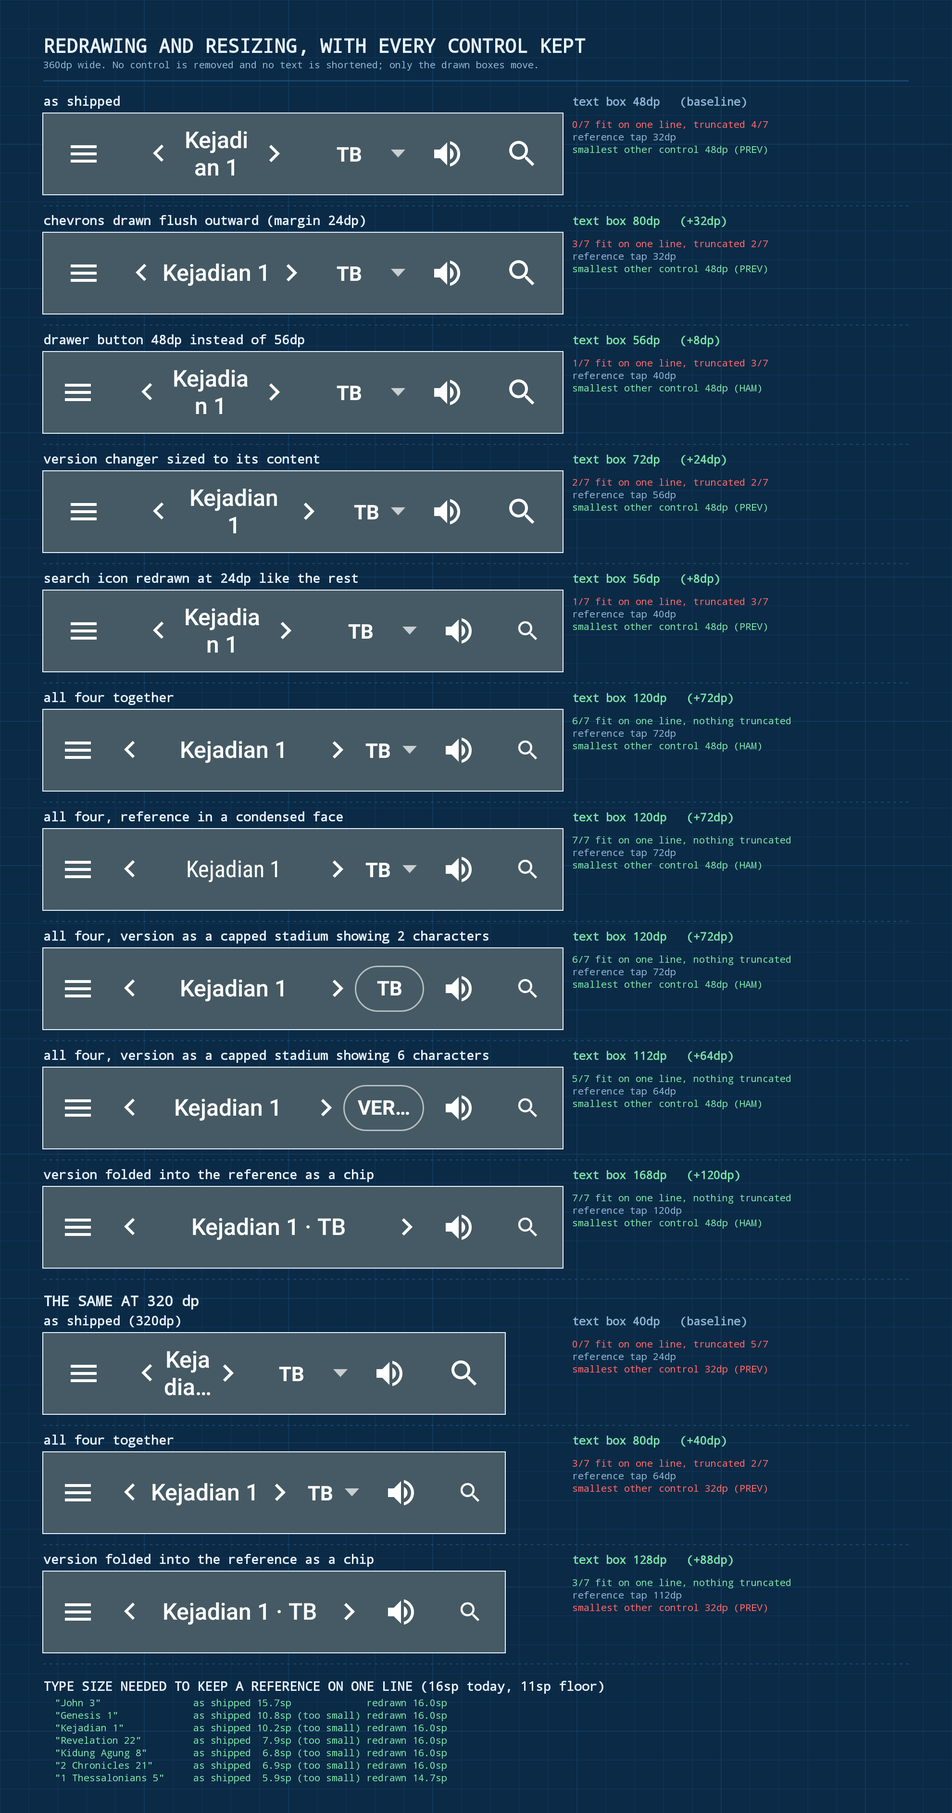
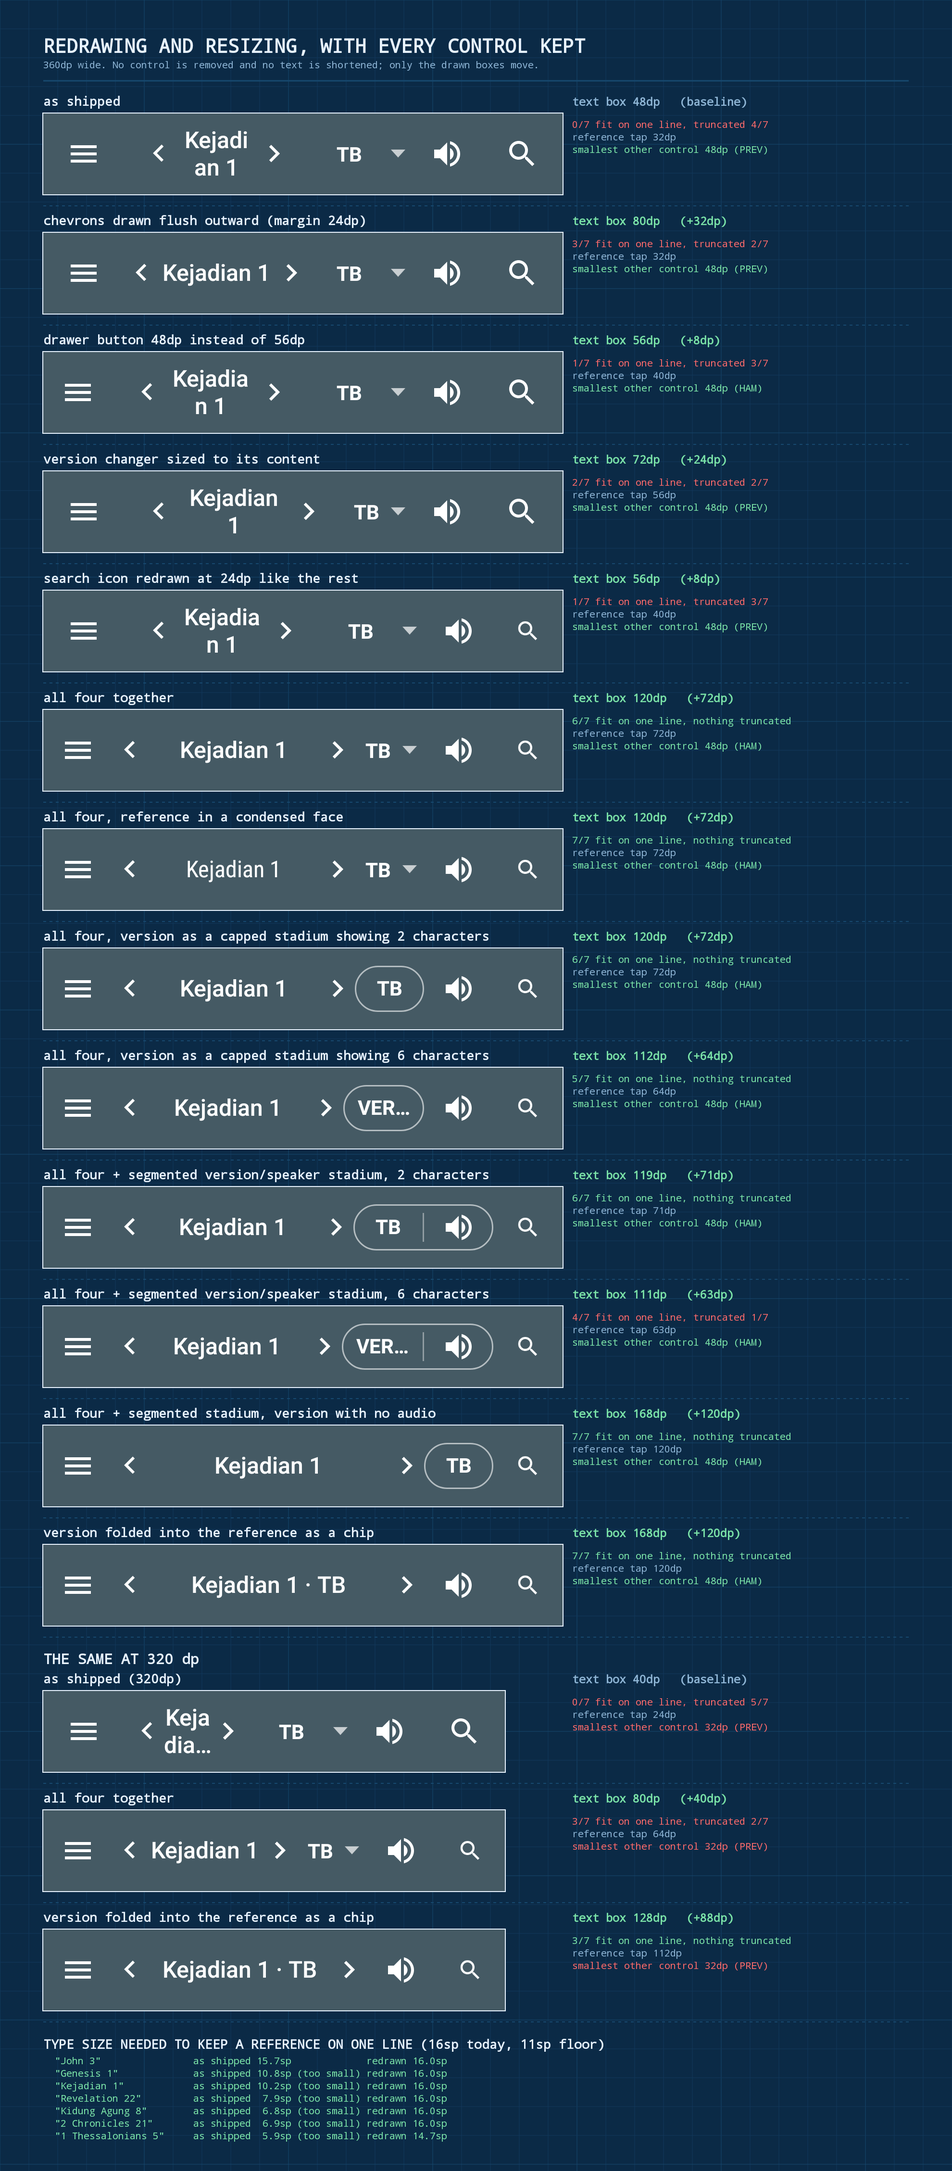
Measure a segmented version-and-speaker stadium
Pairing the version abbreviation with the speaker in one stadium split by a
hairline is sound on the merits. Audio availability is resolved per version
id: AudioSetsRepository caches by versionId and
AudioBarController.isAvailable is "does a visible version have a recording".
The speaker really is a property of the version the label names.

On space it is a wash, and the measurement says so. The control is 97dp at
two characters and 105dp at six, against the 120dp the version changer and
the audio menu item cost together today, so the reference is left 63dp
where a capped chip with audio still in the action menu leaves it 64dp. The
1dp is the divider. Two adjacent tap targets cannot go below 48dp each, so
96dp plus a hairline is the floor for a two-segment control, which is most
of the 120dp back already.

Worth doing for what it says rather than what it saves: one object instead
of two, the speaker visibly owned by the version, a real 48dp target for
the speaker, and a graceful collapse to the plain 56dp chip when the
version has no recording. Two caveats are recorded: it moves audio out of
the action menu, and in split view audioAvailableSources spans every
visible version while bVersion names only the master.

The version-control sheet now measures whole slot views rather than the
label inside them, so a container-backed candidate reports its real width,
and each candidate is compared against what the same job costs today (72dp,
[…]

Changed region(s): [[0.0308, 0.0, 0.8318, 0.9931], [0.6162, 0.6517, 0.7086, 0.6828]]

diff --git a/Alkitab/src/test/java/yuku/alkitab/base/widget/ReaderToolbarSpaceAuditTest.kt b/Alkitab/src/test/java/yuku/alkitab/base/widget/ReaderToolbarSpaceAuditTest.kt
@@ -19,6 +19,8 @@ import android.view.Gravity
 import android.view.View
 import android.view.ViewGroup
 import android.widget.ImageButton
+import android.widget.ImageView
+import android.widget.LinearLayout
 import android.widget.TextView
 import androidx.appcompat.app.AppCompatActivity
 import androidx.appcompat.view.ContextThemeWrapper
@@ -215,7 +217,7 @@ class ReaderToolbarSpaceAuditTest {
         val bGoto = activity.findViewById<GotoButton>(R.id.bGoto)
         val bLeft = activity.findViewById<ImageButton>(R.id.bLeft)
         val bRight = activity.findViewById<ImageButton>(R.id.bRight)
-        val bVersion = activity.findViewById<TextView>(R.id.bVersion)
+        val bVersion = activity.findViewById<View>(R.id.bVersion)
 
         val slots = mutableListOf<Slot>()
 
@@ -1170,6 +1172,18 @@ class ReaderToolbarSpaceAuditTest {
             chevronsFlush(a, 24); compactNavButton(a, 48); resizeSearchIcon(a, 24)
             cappedStadiumVersion(a, "VERSNM")
         },
+        Mutation("all four + segmented version/speaker stadium, 2 characters") { a ->
+            chevronsFlush(a, 24); compactNavButton(a, 48); resizeSearchIcon(a, 24)
+            installSegmented(a, withAudio = true).text = "TB"
+        },
+        Mutation("all four + segmented version/speaker stadium, 6 characters") { a ->
+            chevronsFlush(a, 24); compactNavButton(a, 48); resizeSearchIcon(a, 24)
+            installSegmented(a, withAudio = true).text = "VERSNM"
+        },
+        Mutation("all four + segmented stadium, version with no audio") { a ->
+            chevronsFlush(a, 24); compactNavButton(a, 48); resizeSearchIcon(a, 24)
+            installSegmented(a, withAudio = false).text = "TB"
+        },
         Mutation("version folded into the reference as a chip", refs = MERGED, sample = "Kejadian 1 · TB") { a ->
             spaceSavingPackage(a); foldVersionIntoReference(a)
         },
@@ -1215,8 +1229,10 @@ class ReaderToolbarSpaceAuditTest {
     private class VersionCandidate(
         val name: String,
         val note: String,
-        /** Returns the control now sitting in the version slot. */
-        val install: (ToolbarAuditHostActivity) -> View,
+        /** What the same job costs in the bar today: 72dp, plus 48dp when it also swallows the audio icon. */
+        val baselineDp: Int,
+        /** Returns the text view whose label is being measured. */
+        val install: (ToolbarAuditHostActivity) -> TextView,
     )
 
     /** Swaps whatever sits in the version slot for [view], keeping its id and gravity. */
@@ -1264,45 +1280,123 @@ class ReaderToolbarSpaceAuditTest {
         }
     }
 
+    /**
+     * The version abbreviation and the audio control as one stadium, split by a
+     * hairline. Audio availability is resolved per version id by
+     * [yuku.alkitab.base.audio.AudioSetsRepository], so the speaker belongs to
+     * the version the label names.
+     *
+     * Returns the control and the label inside it.
+     */
+    private fun segmentedVersionAudio(
+        a: ToolbarAuditHostActivity,
+        withAudio: Boolean,
+        capDp: Int = 56,
+    ): Pair<View, TextView> {
+        val stadium = GradientDrawable().apply {
+            shape = GradientDrawable.RECTANGLE
+            cornerRadius = px(16).toFloat()
+            setStroke(px(1), 0x99ffffff.toInt())
+        }
+        val row = LinearLayout(a).apply {
+            orientation = LinearLayout.HORIZONTAL
+            gravity = Gravity.CENTER_VERTICAL
+            background = InsetDrawable(stadium, 0, px(12), 0, px(12))
+        }
+        val label = TextView(a).apply {
+            setTextColor(Color.WHITE)
+            setTextSize(TypedValue.COMPLEX_UNIT_SP, 14f)
+            typeface = Typeface.create(Typeface.DEFAULT, Typeface.BOLD)
+            gravity = Gravity.CENTER
+            includeFontPadding = false
+            setPadding(px(8), 0, px(8), 0)
+            minWidth = px(48)
+            maxWidth = px(capDp)
+            maxLines = 1
+            ellipsize = android.text.TextUtils.TruncateAt.END
+        }
+        row.addView(
+            label,
+            LinearLayout.LayoutParams(
+                ViewGroup.LayoutParams.WRAP_CONTENT,
+                ViewGroup.LayoutParams.MATCH_PARENT,
+            ),
+        )
+        if (withAudio) {
+            val divider = View(a).apply { setBackgroundColor(0x66ffffff) }
+            row.addView(
+                divider,
+                LinearLayout.LayoutParams(px(1), px(20)).apply { gravity = Gravity.CENTER_VERTICAL },
+            )
+            val speaker = ImageView(a).apply {
+                setImageDrawable(ContextCompat.getDrawable(a, R.drawable.ic_audio))
+                scaleType = ImageView.ScaleType.CENTER
+            }
+            row.addView(
+                speaker,
+                LinearLayout.LayoutParams(px(48), ViewGroup.LayoutParams.MATCH_PARENT),
+            )
+        }
+        return row to label
+    }
+
+    /** Installs the segmented control and takes audio out of the action menu. */
+    private fun installSegmented(a: ToolbarAuditHostActivity, withAudio: Boolean): TextView {
+        val (row, label) = segmentedVersionAudio(a, withAudio)
+        hideMenuItem(a, R.id.menuAudio)
+        putInVersionSlot(a, row, fillHeight = true)
+        return label
+    }
+
     private fun versionCandidates() = listOf(
-        VersionCandidate("as shipped (fixed 72dp)", "TextView, FakeSpinner 9-patch") { a ->
+        VersionCandidate("as shipped (fixed 72dp)", "TextView, FakeSpinner 9-patch", 72) { a ->
             a.findViewById(R.id.bVersion)
         },
-        VersionCandidate("as shipped, sized to content", "same style, wrap_content") { a ->
-            val v = a.findViewById<View>(R.id.bVersion)
+        VersionCandidate("as shipped, sized to content", "same style, wrap_content", 72) { a ->
+            val v = a.findViewById<TextView>(R.id.bVersion)
             v.layoutParams = v.layoutParams.apply { width = ViewGroup.LayoutParams.WRAP_CONTENT }
             v
         },
-        VersionCandidate("M3 assist chip", "Widget.Material3.Chip.Assist, 32dp tall, 8dp corner") { a ->
-            putInVersionSlot(a, Chip(material3Context(a)), fillHeight = false)
+        VersionCandidate("M3 assist chip", "Widget.Material3.Chip.Assist, 32dp tall, 8dp corner", 72) { a ->
+            putInVersionSlot(a, Chip(material3Context(a)), fillHeight = false) as TextView
         },
-        VersionCandidate("M3 outlined button (stadium)", "Widget.Material3.Button.OutlinedButton") { a ->
+        VersionCandidate("M3 outlined button (stadium)", "Widget.Material3.Button.OutlinedButton", 72) { a ->
             putInVersionSlot(
                 a,
                 MaterialButton(material3Context(a), null, com.google.android.material.R.attr.materialButtonOutlinedStyle),
                 fillHeight = false,
-            )
+            ) as TextView
         },
-        VersionCandidate("M3 tonal button (stadium)", "Widget.Material3.Button.TonalButton") { a ->
+        VersionCandidate("M3 tonal button (stadium)", "Widget.Material3.Button.TonalButton", 72) { a ->
             putInVersionSlot(
                 a,
                 MaterialButton(material3Context(a), null, com.google.android.material.R.attr.materialButtonTonalStyle),
                 fillHeight = false,
-            )
+            ) as TextView
         },
-        VersionCandidate("hand-drawn stadium", "stadium outline, 12dp side padding, taps full bar height") { a ->
-            putInVersionSlot(a, stadiumVersionControl(a, sidePaddingDp = 12), fillHeight = true)
+        VersionCandidate("hand-drawn stadium", "stadium outline, 12dp side padding, taps full bar height", 72) { a ->
+            putInVersionSlot(a, stadiumVersionControl(a, sidePaddingDp = 12), fillHeight = true) as TextView
         },
-        VersionCandidate("hand-drawn stadium, tight", "same, 8dp side padding") { a ->
-            putInVersionSlot(a, stadiumVersionControl(a, sidePaddingDp = 8), fillHeight = true)
+        VersionCandidate("hand-drawn stadium, tight", "same, 8dp side padding", 72) { a ->
+            putInVersionSlot(a, stadiumVersionControl(a, sidePaddingDp = 8), fillHeight = true) as TextView
         },
-        VersionCandidate("hand-drawn stadium, tight, capped at 56dp", "the same with maxWidth and an ellipsis") { a ->
+        VersionCandidate("hand-drawn stadium, tight, capped at 56dp", "the same with maxWidth and an ellipsis", 72) { a ->
             val v = stadiumVersionControl(a, sidePaddingDp = 8) as TextView
             v.maxWidth = px(56)
             v.maxLines = 1
             v.ellipsize = android.text.TextUtils.TruncateAt.END
-            putInVersionSlot(a, v, fillHeight = true)
+            putInVersionSlot(a, v, fillHeight = true) as TextView
         },
+        VersionCandidate(
+            "segmented stadium: version + speaker",
+            "one stadium split by a hairline, audio out of the action menu",
+            120,
+        ) { a -> installSegmented(a, withAudio = true) },
+        VersionCandidate(
+            "segmented stadium, version without audio",
+            "the speaker segment collapses when the version has no recording",
+            72,
+        ) { a -> installSegmented(a, withAudio = false) },
     )
 
     @Test
@@ -1346,17 +1440,20 @@ class ReaderToolbarSpaceAuditTest {
             var bitmap: Bitmap? = null
 
             try {
-                val control = candidate.install(activity) as TextView
+                val control = candidate.install(activity)
+                // The control may be a container holding the label, so the slot
+                // view is what the audit measures, not the label inside it.
+                fun slot(): View = activity.findViewById(R.id.bVersion)
                 for (label in VERSION_LABELS) {
                     control.text = label
                     layOut(); layOut()
-                    widths += label to control.width
+                    widths += label to slot().width
                     lineCounts += control.lineCount
                 }
                 control.text = VERSION_LABELS.last()
                 layOut(); layOut()
-                drawnHeight = control.height
-                tapHeight = control.height
+                drawnHeight = slot().height
+                tapHeight = slot().height
                 referenceBox = bGoto.width - bGoto.paddingLeft - bGoto.paddingRight
                 bitmap = Bitmap.createBitmap(toolbar.width, toolbar.height, Bitmap.Config.ARGB_8888)
                 toolbar.draw(Canvas(bitmap))
@@ -1422,12 +1519,13 @@ class ReaderToolbarSpaceAuditTest {
                         paint(INK, stroke = 2f),
                     )
                     val widest = r.widths.maxOf { it.second }
-                    val shipped = px(72)
+                    val shipped = px(r.candidate.baselineDp)
                     c.drawText(
-                        "six characters wants ${dpStr(r.widths.last().second)}dp" +
-                            (if (widest > shipped) "  (${dpStr(widest - shipped)}dp more than today)" else "  (${dpStr(shipped - widest)}dp less than today)"),
+                        "6 chars ${dpStr(r.widths.last().second)}dp" +
+                            (if (widest > shipped) "   +${dpStr(widest - shipped)}dp" else "   -${dpStr(shipped - widest)}dp") +
+                            " vs the ${r.candidate.baselineDp}dp it replaces",
                         margin + 1100f, y + 30f,
-                        paint(if (widest <= shipped) OK else ALERT, textSize = 21f, face = monoBold),
+                        paint(if (widest <= shipped) OK else ALERT, textSize = 20f, face = monoBold),
                     )
                     c.drawText(
                         r.widths.joinToString("   ") { "${it.first}=${dpStr(it.second)}" },
@@ -1484,24 +1582,32 @@ class ReaderToolbarSpaceAuditTest {
             appendLine("when it has one, so there is no hard cap; the layout is drawn for six characters")
             appendLine("(`tools:text=\"VERSNM\"`), which is what the last column tests.")
             appendLine()
-            appendLine("| control | " + VERSION_LABELS.joinToString(" | ") { "${it.length}ch" } + " | drawn height | vs today's 72 dp | wraps |")
-            appendLine("| --- | " + VERSION_LABELS.joinToString(" | ") { "---:" } + " | ---: | ---: | --- |")
+            appendLine(
+                "| control | " + VERSION_LABELS.joinToString(" | ") { "${it.length}ch" } +
+                    " | height | replaces | vs that | reference box at 6ch | wraps |"
+            )
+            appendLine("| --- | " + VERSION_LABELS.joinToString(" | ") { "---:" } + " | ---: | ---: | ---: | ---: | --- |")
             for (r in results) {
                 if (r.failure != null) {
-                    appendLine("| ${r.candidate.name} | " + VERSION_LABELS.joinToString(" | ") { "n/a" } + " | n/a | could not be built | |")
+                    appendLine("| ${r.candidate.name} | " + VERSION_LABELS.joinToString(" | ") { "n/a" } + " | n/a | n/a | could not be built | n/a | |")
                     continue
                 }
                 val widest = r.widths.maxOf { it.second }
                 val wraps = r.lineCounts.withIndex().filter { it.value > 1 }.map { VERSION_LABELS[it.index] }
+                val baseline = px(r.candidate.baselineDp)
                 appendLine(
                     "| ${r.candidate.name} | " + r.widths.joinToString(" | ") { dpStr(it.second) } +
-                        " | ${dpStr(r.drawnHeight)} | ${if (widest > px(72)) "+" else ""}${dpStr(widest - px(72))} " +
+                        " | ${dpStr(r.drawnHeight)} | ${r.candidate.baselineDp} dp " +
+                        "| ${if (widest > baseline) "+" else ""}${dpStr(widest - baseline)} " +
+                        "| ${dpStr(r.worstCaseReferenceBox)} " +
                         "| ${if (wraps.isEmpty()) "no" else wraps.joinToString(", ")} |"
                 )
             }
             appendLine()
-            appendLine("The reference text box in the last column of the sheet is what the reference gets")
-            appendLine("with each control in place, in the layout as it ships otherwise.")
+            appendLine("`replaces` is what the same job costs in the bar today: 72 dp for the version")
+            appendLine("changer, or 120 dp when the control also swallows the 48 dp audio item out of the")
+            appendLine("action menu. `reference box` is what the reference is left with, in the layout as")
+            appendLine("it ships otherwise, so it is the bottom line.")
             appendLine()
             appendLine("## Can a Material 3 widget be used today?")
             appendLine()

diff --git a/docs/reports/toolbar-audit/README.md b/docs/reports/toolbar-audit/README.md
@@ -222,6 +222,9 @@ boxes, keeping all seven controls, the full book name and 16 sp type?
 | all four, condensed face | 120 dp | +72 dp | 72 dp | 48 dp | 7/7 | **0/7** |
 | all four, capped stadium version, 2 characters | 120 dp | +72 dp | 72 dp | 48 dp | 6/7 | **0/7** |
 | all four, capped stadium version, 6 characters | 112 dp | +64 dp | 64 dp | 48 dp | 5/7 | **0/7** |
+| all four + segmented version/speaker, 2 characters | 119 dp | +71 dp | 71 dp | 48 dp | 6/7 | **0/7** |
+| all four + segmented version/speaker, 6 characters | 111 dp | +63 dp | 63 dp | 48 dp | 4/7 | 1/7 |
+| all four + segmented stadium, version with no audio | 168 dp | +120 dp | 120 dp | 48 dp | 7/7 | **0/7** |
 | version folded into the reference as a chip | 168 dp | +120 dp | 120 dp | 48 dp | 7/7 | **0/7** |
 
 The six-character worst case costs the reference 8 dp against the two-character
@@ -299,16 +302,23 @@ fixed 72 dp box is 1 dp narrower than the content needs, so "VERSNM" renders as
 
 Every candidate measured in the shipped layout, widths in dp:
 
-| control | 1ch | 2ch | 3ch | 4ch | 5ch | 6ch | drawn height | vs 72 dp | wraps |
-| --- | ---: | ---: | ---: | ---: | ---: | ---: | ---: | ---: | --- |
-| as shipped (fixed 72 dp) | 72 | 72 | 72 | 72 | 72 | 72 | 56 | 0 | **VERSNM** |
-| as shipped, sized to content | 24.7 | 33.7 | 42 | 51.7 | 55 | 73 | 56 | +1 | no |
-| M3 assist chip | 48 | 50 | 58.3 | 68 | 71.7 | 89 | 48 | +17 | no |
-| M3 outlined button (stadium) | 88 | 88 | 88 | 88 | 88 | 105 | 48 | +33 | no |
-| M3 tonal button (stadium) | 88 | 88 | 88 | 88 | 88 | 105 | 48 | +33 | no |
-| hand-drawn stadium, 12 dp padding | 48 | 48 | 50 | 59.7 | 63 | 81 | 56 | +9 | no |
-| hand-drawn stadium, 8 dp padding | 48 | 48 | 48 | 51.7 | 55 | 73 | 56 | +1 | no |
-| **hand-drawn stadium, capped at 56 dp** | **48** | **48** | **48** | **51.7** | **55** | **56** | **56** | **-16** | no |
+| control | 1ch | 2ch | 3ch | 4ch | 5ch | 6ch | height | replaces | vs that | reference box | wraps |
+| --- | ---: | ---: | ---: | ---: | ---: | ---: | ---: | ---: | ---: | ---: | --- |
+| as shipped (fixed 72 dp) | 72 | 72 | 72 | 72 | 72 | 72 | 56 | 72 | 0 | 48 | **VERSNM** |
+| as shipped, sized to content | 24.7 | 33.7 | 42 | 51.7 | 55 | 73 | 56 | 72 | +1 | 47 | no |
+| M3 assist chip | 48 | 50 | 58.3 | 68 | 71.7 | 89 | 48 | 72 | +17 | 31 | no |
+| M3 outlined button (stadium) | 88 | 88 | 88 | 88 | 88 | 105 | 48 | 72 | +33 | 15 | no |
+| M3 tonal button (stadium) | 88 | 88 | 88 | 88 | 88 | 105 | 48 | 72 | +33 | 15 | no |
+| hand-drawn stadium, 12 dp padding | 48 | 48 | 50 | 59.7 | 63 | 81 | 56 | 72 | +9 | 39 | no |
+| hand-drawn stadium, 8 dp padding | 48 | 48 | 48 | 51.7 | 55 | 73 | 56 | 72 | +1 | 47 | no |
+| **hand-drawn stadium, capped at 56 dp** | **48** | **48** | **48** | **51.7** | **55** | **56** | **56** | **72** | **-16** | **64** | no |
+| segmented stadium: version + speaker | 97 | 97 | 97 | 100.7 | 104 | 105 | 56 | 120 | -15 | 63 | no |
+| segmented stadium, version with no audio | 48 | 48 | 48 | 51.7 | 55 | 56 | 56 | 72 | -16 | 112 | no |
+
+`replaces` is what the same job costs in the bar today: 72 dp for the version
+changer, or 120 dp when the control also swallows the 48 dp audio item out of the
+action menu. `reference box` is what the reference is left with at six
+characters, with the rest of the layout as it ships, so it is the bottom line.
 
 ### The Material 3 components are the wrong shape for a toolbar
 
@@ -324,7 +334,7 @@ characters** (50 dp against 72 dp), which is the common case, but 17 dp dearer a
 six. Its minimum is 48 dp because `ensureMinTouchTargetSize` is on by default,
 which is the right behaviour and also its floor.
 
-### What actually wins
+### What actually wins on space
 
 A stadium drawn for this toolbar: 8 dp of side padding instead of the M3 button's
 24 dp, a `maxWidth` of 56 dp with an ellipsis, and a slot that still fills the
@@ -333,6 +343,34 @@ That is 48 dp for a typical two or three character version, 24 dp cheaper than
 today, and it never exceeds 56 dp or wraps, so it is 16 dp cheaper than today
 even in the worst case. It gives the reference a predictable budget, which the
 current control does not.
+
+### The segmented version-and-audio stadium
+
+Pairing the two in one stadium split by a hairline is sound on the merits: audio
+availability is resolved per version id (`AudioSetsRepository` caches by
+`versionId`, `AudioBarController.isAvailable` is "does a visible version have a
+recording"), so the speaker really is a property of the version the label names.
+
+On space it is a wash, and the measurements say so plainly. The control is 97 dp
+at two characters and 105 dp at six, against the 120 dp the same two controls
+cost today, so it gives the reference 63 dp where a capped chip with audio left
+in the action menu gives 64 dp. The 1 dp is the divider. Two adjacent tap targets
+cannot go below 48 dp each, so 96 dp plus a hairline is the floor for a
+two-segment control, and that is most of the 120 dp back already.
+
+So it is worth doing for what it says, not for what it saves:
+
+- one object instead of two, with the speaker visibly owned by the version
+- the speaker gets a real 48 dp target inside the chip
+- when the version has no recording the segment collapses and the control falls
+  back to the plain 56 dp chip, which is the same graceful behaviour the action
+  menu already has (`menuAudio.isVisible = audioBinder.isAvailable`)
+
+Two caveats worth designing for. It moves audio out of the action menu, where a
+toolbar action is conventionally found. And in split view `audioAvailableSources`
+spans every visible version while `bVersion` names only the master, so the
+speaker can be lit by a recording belonging to the version the label does not
+show.
 
 ### Theming
 
@@ -371,6 +409,11 @@ characters), where the control as it ships wraps onto a second line. Do not size
 it to content without a cap: at six characters that is 73 dp, which is wider
 than today. Part of the redraw package in suggestion 0. Prefer this over
 dropping in an M3 button, which is 88 dp empty.
+
+Splitting that chip into version and speaker segments is a reasonable variation:
+it costs 1 dp against the chip, and it says something true, since audio
+availability is a property of the version. Choose it for the grouping, not for
+the space.
 
 **C. Give the reference the touch area its box implies.** Suggestion 0 already
 takes it from 32 dp to 64 dp. If the box is not widened, drop the
